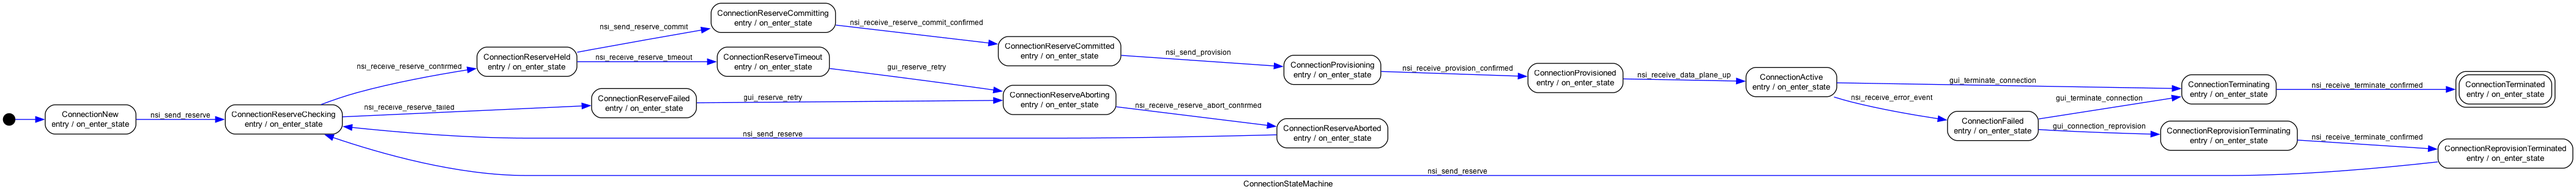
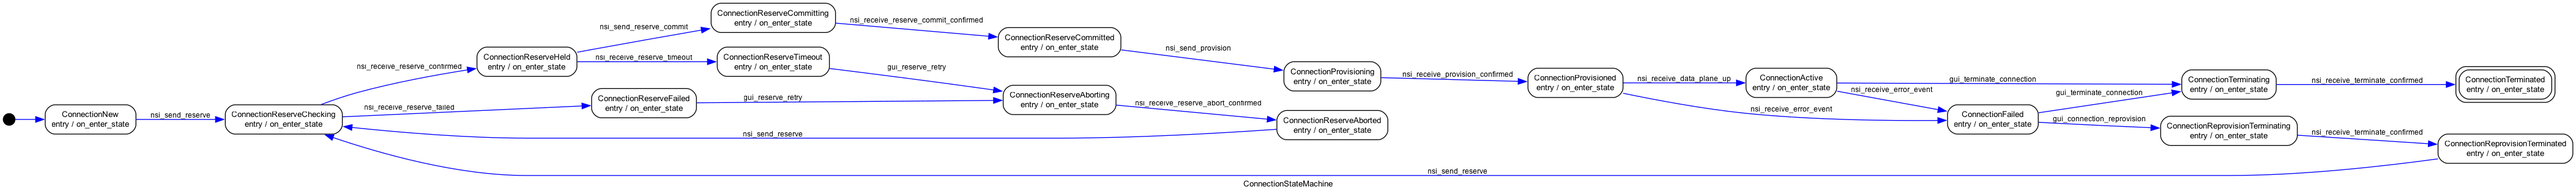
add error event handling

diff --git a/aura/nsi_comm.py b/aura/nsi_comm.py
@@ -162,6 +162,7 @@ NSI_RESERVATION_TIMEOUT_STATE = "ReserveTimeout"
 #
 S_CORRELATION_ID_TAG = "correlationId"
 
+S_SERVICE_EXCEPTION_TAG = "serviceException"
 
 S_FAULTSTRING_TAG = "faultstring"
 
@@ -1054,14 +1055,14 @@ def nsi_send_reserve_commit(reservation: Reservation) -> dict[str, str]:
         reservation_id=reservation.id,
         reservationId=reservation.id,
         correlationId=str(reservation.correlationId),
-        connectionId=reservation.connectionId,
+        connectionId=str(reservation.connectionId),
     )
     log.info("send reserve commit")
     soap_xml = generate_reserve_commit_xml(
         reserve_commit_templstr,
         reservation.correlationId,
         str(settings.NSA_BASE_URL) + "api/nsi/callback/",
-        reservation.connectionId,
+        str(reservation.connectionId),
         state.global_provider_nsa_id,
     )
     soap_xml = nsi_util_post_soap(state.global_soap_provider_url, soap_xml)
@@ -1077,14 +1078,14 @@ def nsi_send_provision(reservation: Reservation) -> dict[str, str]:
         reservation_id=reservation.id,
         reservationId=reservation.id,
         correlationId=str(reservation.correlationId),
-        connectionId=reservation.connectionId,
+        connectionId=str(reservation.connectionId),
     )
     log.info("send provision")
     soap_xml = generate_provision_xml(
         provision_templstr,
         reservation.correlationId,
         str(settings.NSA_BASE_URL) + "api/nsi/callback/",
-        reservation.connectionId,
+        str(reservation.connectionId),
         state.global_provider_nsa_id,
     )
     soap_xml = nsi_util_post_soap(state.global_soap_provider_url, soap_xml)
@@ -1419,6 +1420,23 @@ def nsi_soap_parse_callback(body):
         return correlation_uuid
     print("CALLBACK: Could not find correlationId", body)
     raise Exception("correlationId not found in callback")
+
+
+def nsi_soap_parse_error_event(body):
+    """Extracts connectionId and serviceException from Aggregator async errorEvent.
+    @return UUID as UUID class
+    """
+    tree = nsi_util_parse_xml(body)
+    element = tree.find(FIND_ANYWHERE_PREFIX + S_CONNECTION_ID_TAG)
+    if element is not None:
+        print("CALLBACK: Found connectionId", element.text)
+        connectionId = UUID(element.text)
+        element = tree.find(FIND_ANYWHERE_PREFIX + S_SERVICE_EXCEPTION_TAG)
+        if element is not None:
+            print("CALLBACK: Found serviceException")
+            return connectionId, {element.tag: element.text for element in element.iter()}
+    print("CALLBACK: Could not find connectionId and/or serviceException in errorEvent", body)
+    raise Exception("errorEvent not found in callback")
 
 
 def content_type_is_valid_soap(content_type):

diff --git a/aura/frontend.py b/aura/frontend.py
@@ -23,7 +23,7 @@ from aura.fsm import ConnectionStateMachine
 from aura.job import nsi_send_provision_job, nsi_send_reserve_commit_job, scheduler
 from aura.model import STP, Reservation
 from aura.nsi_aura import create_footer
-from aura.nsi_comm import nsi_soap_parse_callback
+from aura.nsi_comm import nsi_soap_parse_callback, nsi_soap_parse_error_event
 from aura.settings import settings
 
 router = APIRouter()
@@ -68,13 +68,17 @@ async def nsi_callback(request: Request):
 
     log = logger.bind(module=__name__, job=nsi_callback.__name__)
     body = await request.body()
-    correlationId = nsi_soap_parse_callback(body)
     with Session.begin() as session:
-        reservation = session.query(Reservation).filter(Reservation.correlationId == correlationId).one()
+        if request.headers["soapaction"] == '"http://schemas.ogf.org/nsi/2013/12/connection/service/errorEvent"':
+            connectionId, error_event_dict = nsi_soap_parse_error_event(body)
+            reservation = session.query(Reservation).filter(Reservation.connectionId == connectionId).one()
+        else:
+            correlationId = nsi_soap_parse_callback(body)
+            reservation = session.query(Reservation).filter(Reservation.correlationId == correlationId).one()
         log = log.bind(
             reservationId=reservation.id,
             correlationId=str(reservation.correlationId),
-            connectionId=reservation.connectionId,
+            connectionId=str(reservation.connectionId),
         )
         # update connection state machine
         csm = ConnectionStateMachine(reservation)
@@ -93,6 +97,9 @@ async def nsi_callback(request: Request):
             case '"http://schemas.ogf.org/nsi/2013/12/connection/service/provisionConfirmed"':
                 log.info("provision confirmed")
                 csm.nsi_receive_provision_confirmed()
+            case '"http://schemas.ogf.org/nsi/2013/12/connection/service/errorEvent"':
+                log.info("error event", text=error_event_dict["text"], body=body)
+                csm.nsi_receive_error_event()
             case _:
                 log.error("no matching soap action")
         reservation_id = reservation.id

diff --git a/aura/job.py b/aura/job.py
@@ -11,7 +11,7 @@
 #  See the License for the specific language governing permissions and
 #  limitations under the License.
 
-from uuid import uuid4
+from uuid import UUID, uuid4
 
 from apscheduler.schedulers.background import BackgroundScheduler
 from pytz import utc
@@ -40,7 +40,7 @@ def nsi_send_reserve_job(reservation_id: int) -> None:
     retdict = nsi_send_reserve(reservation, source_stp, dest_stp)  # TODO: need error handling post soap failure
     with Session.begin() as session:
         reservation = session.query(Reservation).filter(Reservation.id == reservation_id).one()
-        reservation.connectionId = retdict["connectionId"]
+        reservation.connectionId = UUID(retdict["connectionId"])  # TODO: make nsi_comm return a UUID
 
 
 def nsi_send_reserve_commit_job(reservation_id: int) -> None:

diff --git a/aura/fsm.py b/aura/fsm.py
@@ -79,7 +79,10 @@ class ConnectionStateMachine(AuraStateMachine):
     nsi_send_provision = ConnectionReserveCommitted.to(ConnectionProvisioning)
     nsi_receive_provision_confirmed = ConnectionProvisioning.to(ConnectionProvisioned)
     nsi_receive_data_plane_up = ConnectionProvisioned.to(ConnectionActive)
-    nsi_receive_error_event = ConnectionActive.to(ConnectionFailed)
+    nsi_receive_error_event = (
+        ConnectionActive.to(ConnectionFailed)
+        | ConnectionProvisioned.to(ConnectionFailed)
+    )
     gui_connection_reprovision = ConnectionFailed.to(ConnectionReprovisionTerminating)
     gui_terminate_connection = (
         ConnectionActive.to(ConnectionTerminating)

diff --git a/aura/model.py b/aura/model.py
@@ -78,7 +78,7 @@ class Reservation(SQLModel, table=True):
     """TODO: class should be renamed to `Connection`."""
 
     id: int | None = Field(default=None, primary_key=True)
-    connectionId: str | None
+    connectionId: UUID | None
     globalReservationId: UUID | None
     correlationId: UUID | None
     description: str
